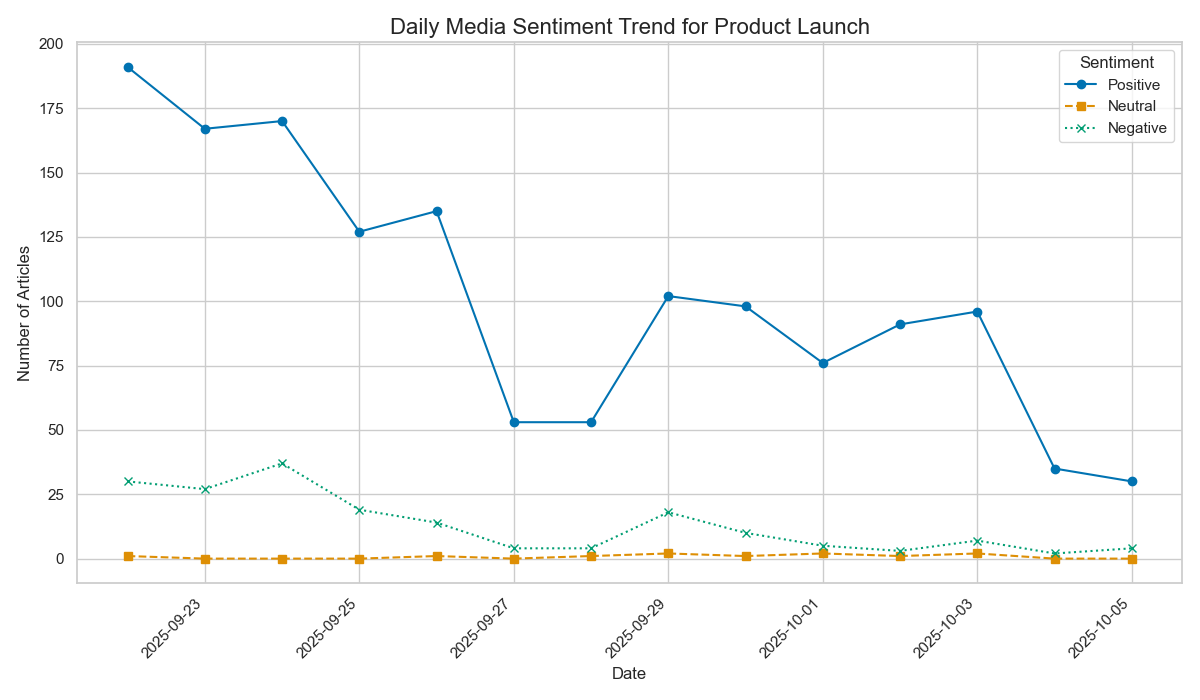
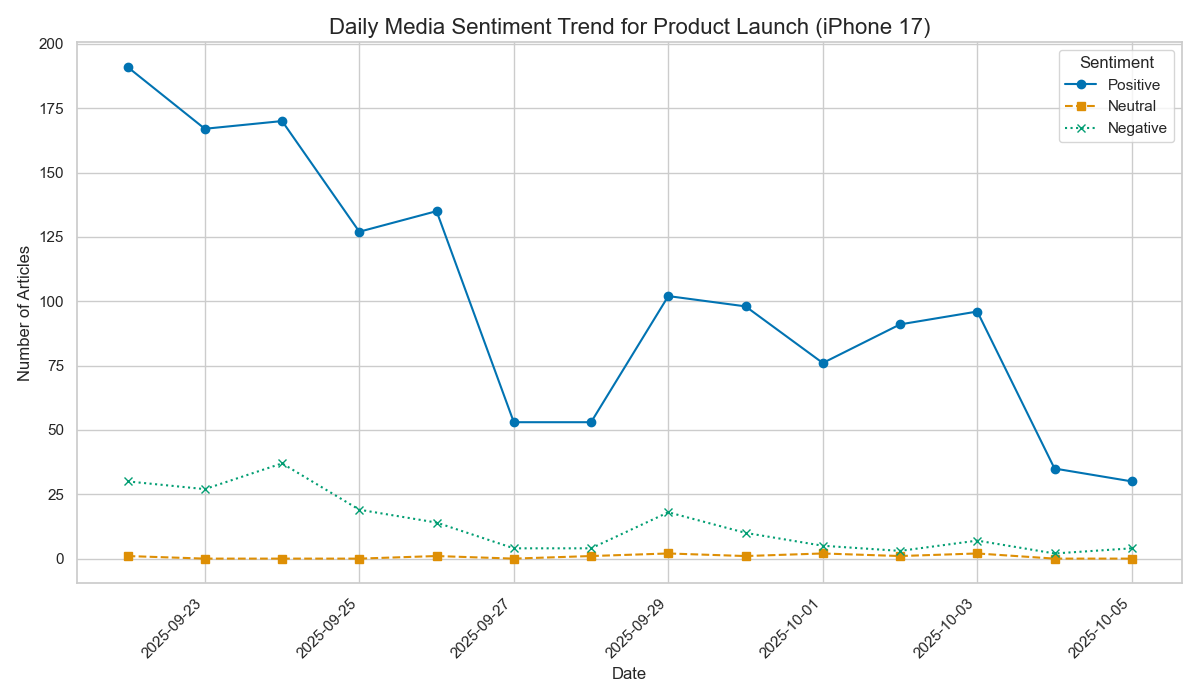
update

Changed region(s): [[0.2775, 0.03, 0.7708, 0.06]]

diff --git a/3_visualize_trends.py b/3_visualize_trends.py
@@ -55,7 +55,7 @@ def generate_visuals_and_report():
     plt.plot(daily_sentiment_counts.index, daily_sentiment_counts['Negative'], label='Negative', marker='x', linestyle=':')
 
     # Add titles and labels for clarity
-    plt.title('Daily Media Sentiment Trend for Product Launch', fontsize=16)
+    plt.title('Daily Media Sentiment Trend for Product Launch (iPhone 17)', fontsize=16)
     plt.xlabel('Date', fontsize=12)
     plt.ylabel('Number of Articles', fontsize=12)
     
